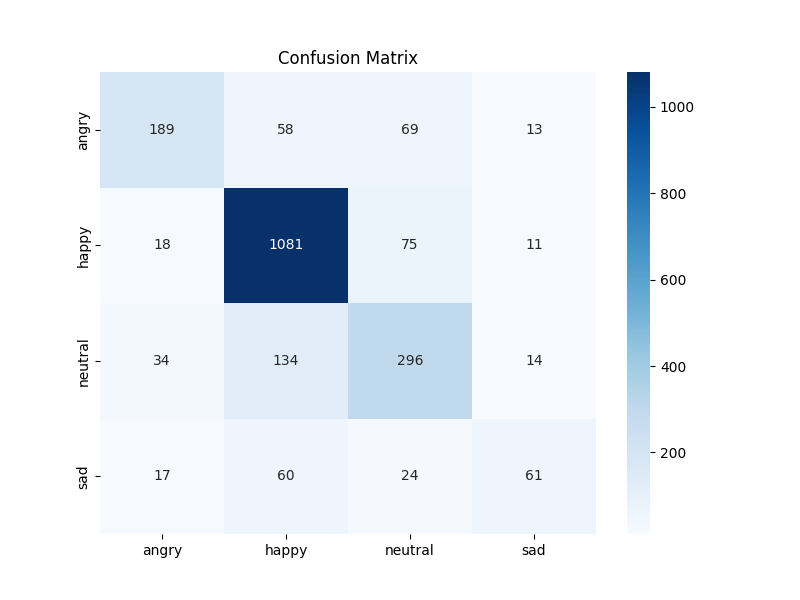
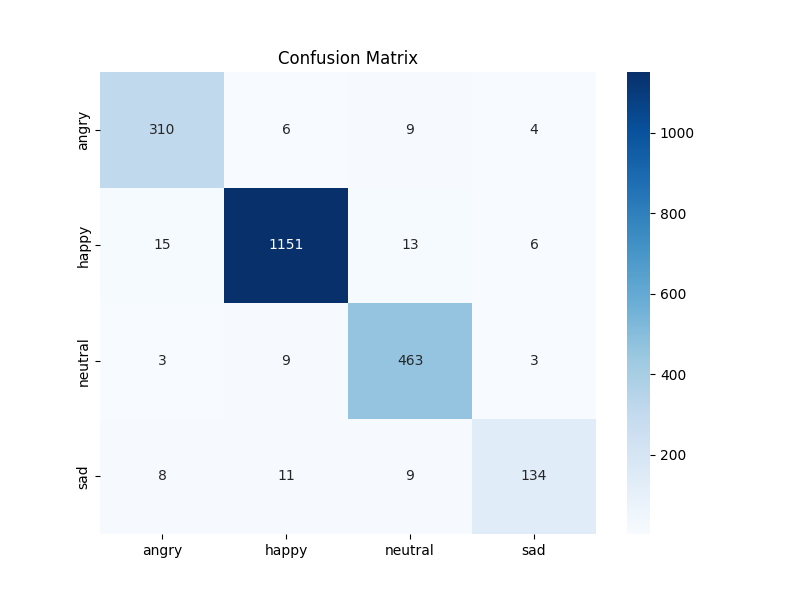
added LLM for gesture selection, trained new model

diff --git a/mainInterview.py b/mainInterview.py
@@ -12,7 +12,7 @@ FURHAT_IP = "localhost"
 GEMINI_API_KEY = os.getenv("API_KEY")
 QUESTIONS_TO_ASK = 5
 
-USE_KEYBOARD = False 
+USE_KEYBOARD = True
 
 # --- MOOD CLASSIFIER CONFIGURATION ---
 # >>> SET THIS TO FALSE TO DISABLE THE API CALLS <<<
@@ -26,7 +26,7 @@ furhat = FurhatRemoteAPI(FURHAT_IP)
 
 SYSTEM_INSTRUCTION = """
 You are an empathetic, multimodal study assistant built for the Furhat robot. 
-Your role is to listen attentively to the student’s academic questions and struggles, and provide clear, supportive guidance. 
+Your role is to listen attentively to the student's academic questions and struggles, and provide clear, supportive guidance. 
 Focus on helping the student solve problems and understand concepts. 
 Keep responses concise, conversational, and emotionally aware, staying strictly on-topic.
 """
@@ -44,7 +44,13 @@ model = genai.GenerativeModel(
     system_instruction=SYSTEM_INSTRUCTION
 )
 
+gesture_model = genai.GenerativeModel(
+    model_name="gemini-2.5-flash",
+    system_instruction="You are a gesture selection AI for the Furhat robot. Based on the user's emotional state and the context of the conversation, you will suggest the most appropriate gesture from the available list. Respond with only the name of the gesture."
+)
+
 chat_session = model.start_chat(history=[])
+gesture_session = gesture_model.start_chat(history=[])
 
 # --- HELPER FUNCTIONS ---
 
@@ -114,9 +120,33 @@ def get_user_input():
 
 def robot_gesture(name):
     try:
-        furhat.gesture(name=name, blocking=False)
+        print(f"[🤖 Robot performs gesture]: {name}")
+        furhat.gesture(name=name, blocking=True)
     except Exception:
         print(f"Gesture {name} not found.")
+
+# choose the most fitting gesture for the current situation and the robots answer
+# we use a seperate LLM session for gestures to keep the context isolated
+def choose_gesture(prompt, response):
+    prompt_lower = prompt.lower()
+    response_lower = response.lower()
+    available_gestures = furhat.get_gestures()
+    
+    # Extract just the gesture names from the list of Gesture objects
+    gesture_names = [g.name for g in available_gestures]
+
+    gesture_prompt = (
+        f"The LLM was prompted with: '{prompt_lower}'\n"
+        f"The robot will respond with: '{response_lower}'\n"
+        f"Based on the user's emotional state and the context of the conversation, suggest the most appropriate gesture from the following list: {gesture_names}.\n"
+        f"Respond with only the name of the gesture."
+    )
+    response = gesture_session.send_message(gesture_prompt)
+    gesture_name = response.text.strip()
+    if gesture_name not in gesture_names:
+        print(f"Suggested gesture '{gesture_name}' not in available gestures. Using default.")
+        gesture_name = "Nod" # Default gesture if the suggested one is not available
+    return gesture_name
 
 # --- MAIN FLOW ---
 
@@ -146,6 +176,7 @@ def run_interview():
     
     print("[🧠] Thinking...")
     response = chat_session.send_message(initial_prompt)
+    rich_next_prompt = initial_prompt  # Initialize for the loop
     ai_text = response.text
 
     # 3. INTERVIEW LOOP
@@ -153,7 +184,8 @@ def run_interview():
         print(f"\n--- Question {i+1} of {QUESTIONS_TO_ASK} ---")
         
         # Robot speaks AI response
-        robot_gesture("Nod")
+        gesture = choose_gesture(rich_next_prompt, ai_text)
+        robot_gesture(gesture)
         robot_say(ai_text)
         
         # Get input

diff --git a/visionSystem/emotion_api.py b/visionSystem/emotion_api.py
@@ -37,7 +37,7 @@ class EmotionDetector:
     def __init__(self, model_path):
         # *** STABILITY FIX: FORCE CPU ***
         # This bypasses the persistent PyTorch/MPS loading error on your system.
-        self.device = torch.device("mps") 
+        self.device = torch.device("cpu") 
         print(f"Using device: {self.device} (Forced for loading stability)")
 
         num_classes = len(EMOTION_LABELS)  
@@ -47,7 +47,7 @@ class EmotionDetector:
         # *** The Loading Block ***
         try:
             # Load state dict onto CPU (most compatible method)
-            state_dict = torch.load(model_path, map_location='mps') 
+            state_dict = torch.load(model_path, map_location='cpu') 
             self.model.load_state_dict(state_dict)
             print(f"Model state loaded onto CPU successfully.")
         except Exception as e:

diff --git a/try_gestures.py b/try_gestures.py
@@ -1,0 +1,6 @@
+from furhat_remote_api import FurhatRemoteAPI
+furhat = FurhatRemoteAPI("localhost")
+available_gestures = furhat.get_gestures()
+print(available_gestures.values)
+furhat.say(text="Hello, I will now perform a gesture.", blocking=True)
+furhat.gesture(name="Smile", blocking=True)
